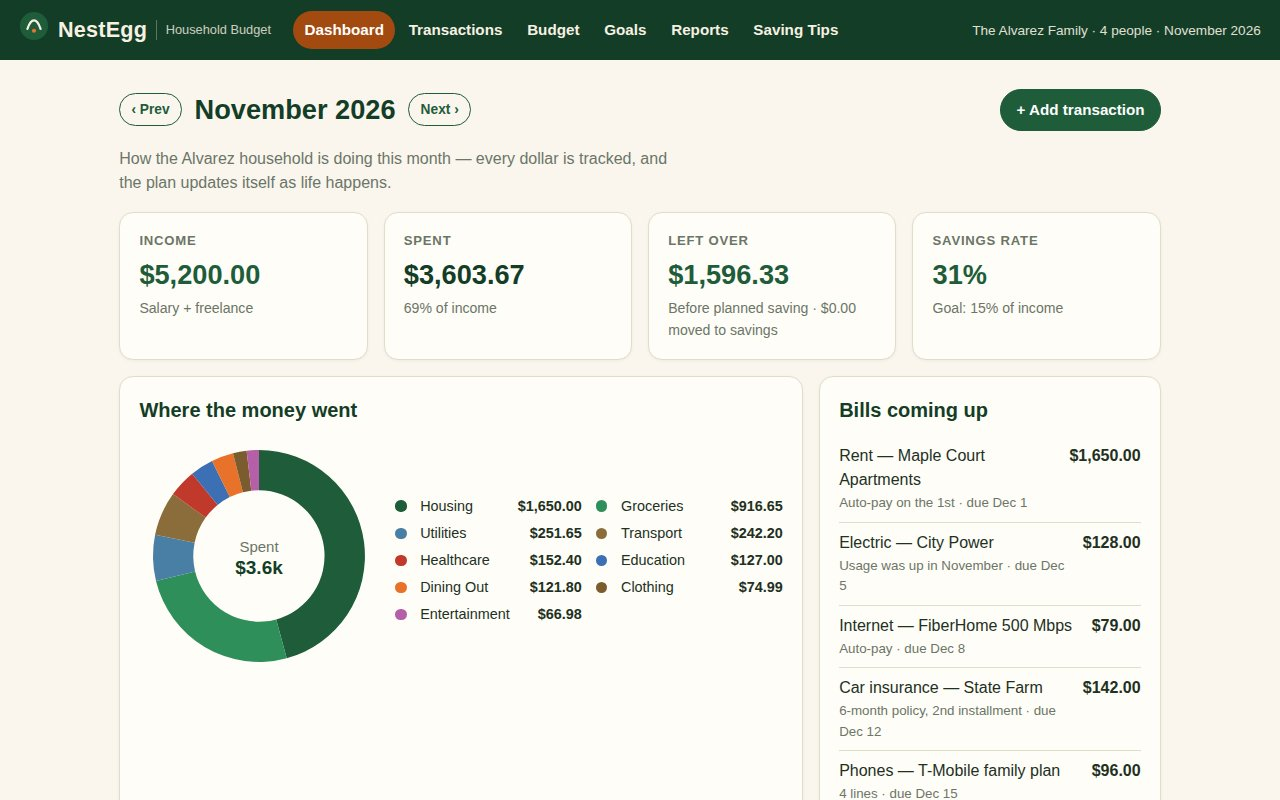
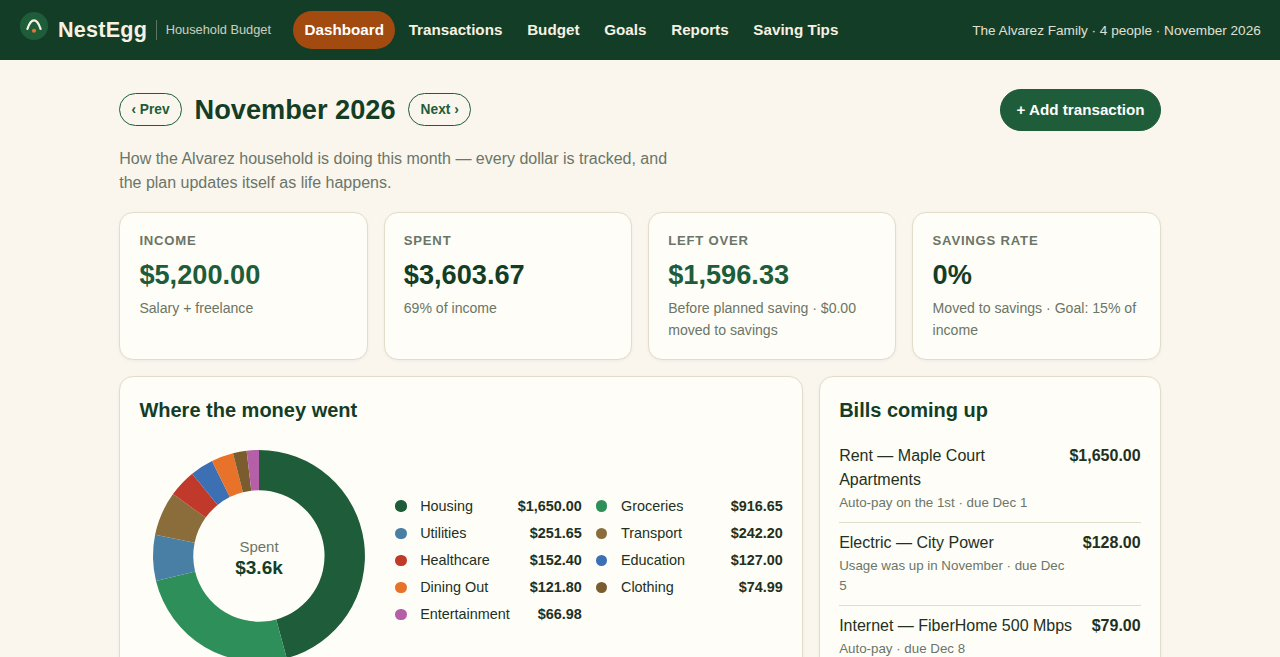
rev2: fix F-19 event delegation; honest savings rate (A-01/F-21/F-22/F-23); dynamic month (F-09/F-10); Reports summary totals (F-20); edit-to-other-month notice (F-24); Amount label 1 line

diff --git a/app/view-reports.js b/app/view-reports.js
@@ -17,7 +17,11 @@ export function render(ctx) {
   });
   const avgIncome = Math.round(series.reduce((a, m) => a + m.income, 0) / series.length);
   const avgSpent = Math.round(series.reduce((a, m) => a + m.spent, 0) / series.length);
-  const avgSaved = avgIncome - avgSpent;
+  // F-21 (rev2): income minus spending is money LEFT OVER, not money saved —
+  // nothing here was actually moved to savings (savingsMoved is $0 for every
+  // month in the data). Calling it "saved" put a false 17% savings rate on
+  // this page, contradicting the Dashboard's $0 moved.
+  const avgLeftOver = avgIncome - avgSpent;
   const best = series.reduce((a, m) => (m.income - m.spent > a.income - a.spent ? m : a), series[0]);
   // F-18: say out loud which months are stored summaries, not live totals.
   const summaryLabels = series.filter((m) => m.fromSummary).map((m) => m.label);
@@ -29,7 +33,11 @@ export function render(ctx) {
   const prevMonth = shiftMonth(month, -1);
   const thisSpend = categorySpend(state, month);
   const lastSpend = categorySpend(state, prevMonth);
-  const compareRows = CATEGORIES.filter((c) => thisSpend[c.name] || lastSpend[c.name]).map((c) => {
+  // F-20 (rev2): months with only a stored summary (Jun–Aug 2026) have no
+  // transactions, so the per-category comparison used to render 0 rows while
+  // the chart above still showed numbers. Show the totals from the summary
+  // and say out loud that there is no per-category breakdown.
+  let compareRows = CATEGORIES.filter((c) => thisSpend[c.name] || lastSpend[c.name]).map((c) => {
     const cur = thisSpend[c.name] || 0;
     const prev = lastSpend[c.name] || 0;
     const delta = cur - prev;
@@ -39,6 +47,21 @@ export function render(ctx) {
       <td class="num">${money(prev)}</td><td class="num">${money(cur)}</td>
       <td class="num ${cls}">${arrow} ${money(Math.abs(delta))}</td></tr>`;
   }).join("");
+  if (!compareRows) {
+    const spentFor = (ym) => {
+      const s = MONTH_SUMMARIES.find((x) => x.ym === ym);
+      return s ? s.spent : monthTotals(state, ym).spent;
+    };
+    const curTotal = spentFor(month);
+    const prevTotal = spentFor(prevMonth);
+    const delta = curTotal - prevTotal;
+    const arrow = delta > 0 ? "▲" : delta < 0 ? "▼" : "—";
+    const cls = delta > 0 ? "negative" : delta < 0 ? "positive" : "";
+    compareRows = `<tr><td>Total spending</td>
+      <td class="num">${money(prevTotal)}</td><td class="num">${money(curTotal)}</td>
+      <td class="num ${cls}">${arrow} ${money(Math.abs(delta))}</td></tr>
+    <tr><td colspan="4" class="hint">No transaction-level data for these months — only monthly totals were kept, so there is no per-category breakdown. See the chart above for the totals.</td></tr>`;
+  }
 
   const tips = [];
   const dining = (thisSpend["Dining Out"] || 0) + (lastSpend["Dining Out"] || 0);
@@ -47,8 +70,8 @@ export function render(ctx) {
   if (groceries > 55000) tips.push(`Groceries ran ${money(groceries)} in ${monthLabel(month)}. A weekly meal plan and one bulk Costco run a month — instead of three small trips — cuts impulse buys.`);
   const entertainment = thisSpend.Entertainment || 0;
   if (entertainment > 5000) tips.push(`Entertainment was ${money(entertainment)} in ${monthLabel(month)}. The library lends movies and board games free, and the kids love the park just as much.`);
-  tips.push(`Average saving over six months is ${money(avgSaved)} a month (${pct(avgSaved, avgIncome)} of income). Moving that amount to savings on payday, automatically, locks the habit in.`);
-  if (best) tips.push(`${best.label} was the best month — ${money(best.income - best.spent)} saved. Whatever the family did then is worth repeating.`);
+  tips.push(`Average left over over six months is ${money(avgLeftOver)} a month (${pct(avgLeftOver, avgIncome)} of income). Moving that amount to savings on payday, automatically, locks the habit in.`);
+  if (best) tips.push(`${best.label} was the best month — ${money(best.income - best.spent)} left over. Whatever the family did then is worth repeating.`);
 
   return `
   <h1>Reports</h1>
@@ -56,7 +79,7 @@ export function render(ctx) {
   <div class="grid grid-3 mt">
     <div class="card stat"><div class="label">Average income / mo</div><div class="value">${money(avgIncome)}</div><div class="note">Last 6 months</div></div>
     <div class="card stat"><div class="label">Average spending / mo</div><div class="value">${money(avgSpent)}</div><div class="note">Last 6 months</div></div>
-    <div class="card stat"><div class="label">Average saved / mo</div><div class="value good">${money(avgSaved)}</div><div class="note">${pct(avgSaved, avgIncome)} savings rate</div></div>
+    <div class="card stat"><div class="label">Average left over / mo</div><div class="value ${avgLeftOver >= 0 ? "good" : "warn"}">${money(avgLeftOver)}</div><div class="note">${pct(avgLeftOver, avgIncome)} left over, before planned saving</div></div>
   </div>
   <div class="card mt">
     <h2>Income vs spending — last 6 months</h2>

diff --git a/app/view-transactions.js b/app/view-transactions.js
@@ -68,11 +68,11 @@ export function render(ctx) {
       <div class="field"><label for="f-search">Search</label><input id="f-search" type="search" placeholder="e.g. Costco or Groceries" value="${esc(searchText)}"></div>
       <button class="btn" id="show-add">+ Add transaction</button>
     </div>
-    <form id="add-form" class="inline-form" aria-label="Add transaction">
+    <form id="add-form" class="inline-form${notice ? " open" : ""}" aria-label="Add transaction">
       <div class="form-row-3 form-row">
         <div class="field"><label for="a-date">Date</label><input id="a-date" type="date" value="${month}-15" required></div>
         <div class="field"><label for="a-cat">Category</label><select id="a-cat"><option>Income</option>${CATEGORIES.map((c) => `<option>${c.name}</option>`).join("")}</select></div>
-        <div class="field"><label for="a-amt">Amount ($) — minus for spending; the sign is fixed for you if you forget</label><input id="a-amt" type="number" step="0.01" placeholder="-45.20" required></div>
+        <div class="field"><label for="a-amt">Amount ($)</label><input id="a-amt" type="number" step="0.01" placeholder="-45.20" required><p class="hint">Minus for spending — the sign is fixed for you if you forget.</p></div>
       </div>
       <div class="field"><label for="a-desc">Description</label><input id="a-desc" type="text" placeholder="What was it for?" required></div>
       <p class="form-msg" id="add-msg" role="alert">${esc(addMsg)}</p>
@@ -173,13 +173,21 @@ export function bind(el, ctx) {
     });
     if (!saved) { showFormError("#edit-msg", "That transaction could not be found — please reload the page and try again."); return; }
     editMsg = "";
+    // F-24 (rev2): an edit that moves the row to another month says so out
+    // loud, like the add path (F-09) already does — otherwise the row just
+    // vanishes from this month with no word. addNotice is consumed by the
+    // render right after, which opens the add form so it is actually seen.
+    addNotice = monthOf(date) !== month
+      ? `Moved to ${monthLabel(monthOf(date))} — use the month arrows on the Dashboard to see it.`
+      : "";
     rerender();
   });
-  el.querySelectorAll("[data-del]").forEach((b) => b.addEventListener("click", () => {
-    if (window.confirm("Delete this transaction?")) { deleteTransaction(state, b.dataset.del); rerender(); }
-  }));
-  el.querySelectorAll("[data-edit]").forEach((b) => b.addEventListener("click", () => {
-    const tx = state.transactions.find((t) => t.id === b.dataset.edit);
+  // F-19 (rev2): one delegated handler on tbody, not per-button listeners.
+  // refreshTable() replaces tbody.innerHTML on every keystroke/filter change,
+  // which used to orphan the listeners bound once in bind() — Edit/Delete
+  // silently died after any search or filter. Delegation survives the swap.
+  const openEdit = (id) => {
+    const tx = state.transactions.find((t) => t.id === id);
     if (!tx) return;
     const f = el.querySelector("#edit-form");
     f.querySelector("#e-id").value = tx.id;
@@ -201,5 +209,14 @@ export function bind(el, ctx) {
     f.classList.add("open");
     el.querySelector("#add-form").classList.remove("open");
     f.scrollIntoView({ block: "nearest" });
-  }));
+  };
+  el.querySelector("tbody").addEventListener("click", (e) => {
+    const delBtn = e.target.closest("[data-del]");
+    if (delBtn) {
+      if (window.confirm("Delete this transaction?")) { deleteTransaction(state, delBtn.dataset.del); rerender(); }
+      return;
+    }
+    const editBtn = e.target.closest("[data-edit]");
+    if (editBtn) openEdit(editBtn.dataset.edit);
+  });
 }

diff --git a/app/view-dashboard.js b/app/view-dashboard.js
@@ -8,7 +8,11 @@ export function render(ctx) {
   const { state, month } = ctx;
   const t = monthTotals(state, month);
   const spend = categorySpend(state, month);
-  const saveRate = t.income ? Math.round(((t.income - t.spent) / t.income) * 100) : 0;
+  // A-01 (rev2): the savings rate is money actually moved to savings, not
+  // leftover relabelled. (income-spent)/income read 31% while $0 had moved
+  // to savings — the cover screenshot contradicted itself.
+  const moved = savingsMoved(state, month);
+  const saveRate = t.income ? Math.round((moved / t.income) * 100) : 0;
   const slices = CATEGORIES
     .filter((c) => spend[c.name])
     .map((c) => ({ label: c.name, value: spend[c.name], color: c.color }))
@@ -46,8 +50,8 @@ export function render(ctx) {
   <div class="grid grid-4 mt">
     <div class="card stat"><div class="label">Income</div><div class="value good">${money(t.income)}</div><div class="note">Salary + freelance</div></div>
     <div class="card stat"><div class="label">Spent</div><div class="value">${money(t.spent)}</div><div class="note">${pct(t.spent, t.income)} of income</div></div>
-    <div class="card stat"><div class="label">Left over</div><div class="value ${t.remaining < 0 ? "warn" : "good"}">${money(t.remaining)}</div><div class="note">Before planned saving · ${money(savingsMoved(state, month))} moved to savings</div></div>
-    <div class="card stat"><div class="label">Savings rate</div><div class="value good">${saveRate}%</div><div class="note">Goal: 15% of income</div></div>
+    <div class="card stat"><div class="label">Left over</div><div class="value ${t.remaining < 0 ? "warn" : "good"}">${money(t.remaining)}</div><div class="note">Before planned saving · ${money(moved)} moved to savings</div></div>
+    <div class="card stat"><div class="label">Savings rate</div><div class="value ${saveRate >= 15 ? "good" : ""}">${saveRate}%</div><div class="note">Moved to savings · Goal: 15% of income</div></div>
   </div>
   <div class="grid grid-2-1 mt">
     <div class="card">

diff --git a/app/main.js b/app/main.js
@@ -1,7 +1,7 @@
 // main.js — hash router + app startup for NestEgg.
 
 import { loadState, resetState, loadNotice, saveError } from "./data.js";
-import { monthLabel, shiftMonth, esc } from "./format.js";
+import { monthLabel, shiftMonth, currentMonth, esc } from "./format.js";
 import * as Dashboard from "./view-dashboard.js";
 import * as Transactions from "./view-transactions.js";
 import * as Budget from "./view-budget.js";
@@ -19,7 +19,7 @@ const ROUTES = {
 };
 
 let state = loadState();
-let month = "2026-11";
+let month = currentMonth();
 const viewEl = document.getElementById("view");
 const headerMonth = document.getElementById("header-month");
 
@@ -61,7 +61,7 @@ document.getElementById("reset-demo").addEventListener("click", () => {
   if (window.confirm("Reset the demo data back to the Alvarez family's original sample? Your changes will be lost.")) {
     state = resetState();
     Transactions.resetFilters();
-    month = "2026-11";
+    month = currentMonth();
     render();
   }
 });

diff --git a/app/view-tips.js b/app/view-tips.js
@@ -3,8 +3,11 @@
 const TIPS = [
   {
     title: "Pay yourself first — on payday, not at month's end",
-    body: "Set an automatic transfer of $800 to savings for the morning your salary lands. The Alvarez family saves $800 a month this way; when saving waits until the end of the month, it never happens.",
-    save: "Saves about $800 a month, automatically",
+    // F-22 (rev2): the old wording claimed the family already "saves $800 a
+    // month this way" — false against the data ($0 moved to savings, no
+    // Savings transactions). This is a target to aim for, not a fact.
+    body: "Set an automatic transfer of $800 to savings for the morning your salary lands. The Alvarez family aims to move $800 a month this way — their Savings budget is $800, and nothing has moved yet; when saving waits until the end of the month, it never happens.",
+    save: "Moves $800 a month to savings, automatically",
   },
   {
     title: "One grocery list, one trip a week",

diff --git a/app/view-goals.js b/app/view-goals.js
@@ -40,6 +40,7 @@ export function render(ctx) {
   return `
   <h1>Savings goals</h1>
   <p class="lede">Three things the Alvarez family is saving for — every contribution is real money, taken out of this month's spending.</p>
+  <p class="hint">These balances were built up before the transaction history on this site begins, so no Savings transfer for them appears in Transactions — only new contributions below create Savings transactions.</p>
   <div class="grid grid-2 mt">
     <div class="card stat"><div class="label">Saved across all goals</div><div class="value good">${money(totalSaved)}</div><div class="note">${pct(Math.min(totalSaved, totalTarget), totalTarget)} of all targets combined</div></div>
     <div class="card stat"><div class="label">Still to save</div><div class="value">${money(Math.max(0, totalTarget - totalSaved))}</div><div class="note">Across ${state.goals.length} goals</div></div>

diff --git a/app/format.js b/app/format.js
@@ -55,6 +55,13 @@ export function todayIso() {
   return d.getFullYear() + "-" + String(d.getMonth() + 1).padStart(2, "0") + "-" + String(d.getDate()).padStart(2, "0");
 }
 
+// F-09/F-10 (rev2): the month being viewed starts at the real current
+// month, never a hard-coded seed month — on 01/12 the app used to open
+// still showing November 2026.
+export function currentMonth() {
+  return todayIso().slice(0, 7);
+}
+
 // F-09: a date inside the month being viewed — today if that month is the
 // current month, otherwise the 1st of the viewed month.
 export function dateInMonth(ym) {

diff --git a/reviews/builder-round3.md b/reviews/builder-round3.md
@@ -1,0 +1,126 @@
+# Builder log — NestEgg rev2 (round 3 fixes)
+
+- Ngày: 2026-11-29 ~00:20–00:45 VN
+- Base: `a23d891` (submission vòng 2, hạng 4770/5723)
+- Nguồn sửa: `reviews/reviewers-round3.md`, `reviews/browser-verify-round3.md`, `reviews/gemma-round3.md`
+- Kiểm chứng: Chromium thật (Playwright chromium-1255, `--headless=new`), app serve
+  bằng `python3 -m http.server 8123` từ `app/`, điều khiển qua CDP bằng script
+  Node (`/tmp/nestegg/r3-verify.mjs`, `/tmp/nestegg/r3-shots.mjs`).
+  Số đo trước = chạy lại script trên code `a23d891` (khớp đúng kết luận round 3).
+
+## 1. F-19 (BLOCKER) — Edit/Delete chết sau search/filter — PASS
+
+- Sửa: `app/view-transactions.js` — bỏ 2 khối `querySelectorAll("[data-del]")` /
+  `"[data-edit]"` gắn listener một lần trong `bind()`; thay bằng **một handler
+  delegation trên `tbody`** (`e.target.closest("[data-del]"/"[data-edit]")`),
+  logic mở form Edit tách thành `openEdit(id)`. `refreshTable()` thay
+  `tbody.innerHTML` giờ không còn làm mồ côi listener.
+- Đo trước (code cũ): search "costco" → 2 dòng → Delete → vẫn 2 dòng; Edit →
+  form không mở.
+- Đo sau: search "costco" → 2 nút Delete → Delete → **1 nút** (đúng trừ 1);
+  Edit sau search → form mở, `#e-desc` = "Thanksgiving groceries — Costco".
+- Lưu ý: lần verify đầu Delete báo 2→2 do Chrome cũ từ lượt baseline còn chạy
+  kẹt profile; kill sạch + chạy lại thì PASS. Debug riêng (`dbg-f19.mjs`)
+  cũng xác nhận 2→1, 0 page exception.
+
+## 2. A-01 / F-21 / F-22 / F-23 — số liệu "tiết kiệm" trung thực — PASS
+
+- Sửa:
+  - `app/view-dashboard.js:11`: `saveRate` = `savingsMoved(state, month) / income`
+    (trước: `(income - spent) / income`). Note đổi thành "Moved to savings ·
+    Goal: 15% of income"; class `good` chỉ khi ≥ 15% (0% không còn xanh).
+  - `app/view-reports.js:22-24`: `avgSaved` → `avgLeftOver`, thẻ "Average left
+    over / mo", note "17% left over, before planned saving" (không còn
+    "savings rate"); tips trong cùng file đổi "Average saving…" → "Average
+    left over…", "best month … saved" → "… left over". Đồng thời sửa F-27:
+    class `good`/`warn` theo dấu của `avgLeftOver` (trước luôn xanh).
+  - `app/view-tips.js:9-13` (tip #1): "The Alvarez family saves $800 a month
+    this way" → "aims to move $800 a month this way — their Savings budget is
+    $800, and nothing has moved yet"; save-line → "Moves $800 a month to
+    savings, automatically".
+  - `app/view-goals.js`: thêm 1 dòng hint dưới lede: số dư goals được tích lũy
+    từ trước khi lịch sử giao dịch trên site bắt đầu, nên không có giao dịch
+    Savings nào cho chúng trong Transactions; chỉ contribution mới tạo giao
+    dịch Savings. **Giữ nguyên số liệu seed ($10,550), không bịa số.**
+- Đo trước: Dashboard "Savings rate 31%" kề "$0.00 moved to savings"; Reports
+  "Average saved / mo $1,208.01 · 23% savings rate" (tháng 11; tháng 7 là 17%);
+  Tips #1 khẳng định gia đình "saves $800 a month".
+- Đo sau: Dashboard **"Savings rate 0%"** kề "$0.00 moved to savings";
+  Reports **"Average left over / mo $300.50 · 17% left over, before planned
+  saving"** (tháng 7) và không còn chuỗi "Average saved"/"savings rate" nào
+  trong body Reports; Tips #1 không còn câu khẳng định sai; Goals có dòng
+  giải thích nguồn số dư.
+
+## 3. F-09/F-10 — tháng mặc định động — PASS
+
+- Sửa: `app/format.js` thêm `currentMonth()` (từ `new Date()`); `app/main.js`
+  dùng `currentMonth()` lúc khởi động **và** lúc Reset demo (trước hard-code
+  `"2026-11"` cả 2 chỗ).
+- Đo trước (giả lập clock 01/12/2026 10:00 +07 qua `Page.addScriptToEvaluateOnNewDocument`):
+  dashboard vẫn "November 2026", form Add mặc định 2026-11-15.
+- Đo sau (cùng mock): header + H1 = **"December 2026"**, form Add mặc định
+  **2026-12-15**, 0 page exception. Đồng hồ thật 29/11 vẫn hiện November 2026
+  đúng seed.
+
+## 4. F-20 — bảng so sánh Reports trống tháng 6–8/2026 — PASS
+
+- Sửa: `app/view-reports.js` — khi không có dòng so sánh theo hạng mục nào,
+  hiện 1 dòng "Total spending" lấy từ `MONTH_SUMMARIES` (fallback
+  `monthTotals`) + 1 dòng ghi rõ không có dữ liệu từng giao dịch nên không có
+  breakdown theo hạng mục.
+- Đo trước: tháng 7/2026 → tbody **0 dòng** (trong khi biểu đồ có số).
+- Đo sau: tháng 7/2026 → **2 dòng**: "Total spending $4,185.00 $4,412.00
+  ▲ $227.00" + dòng giải thích. Tháng 11 (có giao dịch) vẫn hiện đủ 9 dòng
+  hạng mục như cũ.
+
+## 5. F-24 — sửa ngày sang tháng khác thì dòng biến mất không báo — PASS
+
+- Sửa: `app/view-transactions.js` — đường submit Edit: nếu `monthOf(date) !==
+  month` thì đặt `addNotice` = "Moved to <tháng mới> — use the month arrows
+  on the Dashboard to see it." (cùng cơ chế one-shot với đường Add F-09).
+  Kèm sửa: `render()` mở form Add khi có notice (`class="inline-form open"`),
+  vì trước đây notice nằm trong form đóng nên thực tế không ai thấy được —
+  cả đường Add F-09 cũng được hưởng.
+- Đo trước: edit Costco 2026-11-11 → 2026-12-05: dòng biến mất, notice rỗng,
+  không thấy gì.
+- Đo sau: notice **"Moved to December 2026 — use the month arrows on the
+  Dashboard to see it."**, `noticeVisible=true`, form Add tự mở, bảng còn
+  1 dòng Costco (dòng kia đã sang tháng 12).
+
+## 6. Nhãn "Amount ($)" form Add — PASS
+
+- Sửa: `app/view-transactions.js` — label rút về đúng "Amount ($)", phần giải
+  thích dấu chuyển xuống `<p class="hint">` dưới ô input.
+- Đo trước: label cao **43.6px = 2 dòng**, ô Amount lệch hàng so với Date.
+- Đo sau (form mở): label cao **21.8px = 1 dòng**, `amtTop == dateTop`
+  (316.34px, lệch 0px), hint hiện dưới ô: "Minus for spending — the sign is
+  fixed for you if you forget."
+
+## Screenshots (chụp lại, đã xem bằng mắt)
+
+- `screenshots/1-cover-dashboard.jpg` (1280×657): Savings rate **0%**, nhất
+  quán với "$0.00 moved to savings"; không lỗi mới.
+- `screenshots/2-transactions.jpg` (1280×657): form Add mở, nhãn Amount ($)
+  1 dòng thẳng hàng, hint nằm gọn dưới ô.
+- `screenshots/3-budget.jpg` (1280×657): không đổi, không lỗi mới.
+- `screenshots/4-dashboard-phone.jpg` (390×844): nav 2 hàng, stat 2 cột,
+  Savings rate 0%; donut bắt đầu ở cuối viewport như ảnh cũ (dưới fold,
+  không phải lỗi mới — giữ nguyên khung hình vòng trước).
+- Lưu ý kỹ thuật: headless Chrome ép chiều rộng cửa sổ tối thiểu 500px nên
+  ảnh phone dùng `Emulation.setDeviceMetricsOverride` 390×844 để đúng
+  viewport trong `shots.json`.
+
+## Tổng kết verify
+
+- Script `/tmp/nestegg/r3-verify.mjs`: **11/11 PASS** (chạy lại sau khi sửa
+  xong toàn bộ; baseline trên code cũ: 3/11 — 2 PASS giả do đo sai: label đo
+  khi form đóng, F-20 đo nhầm tháng 11; đã sửa script rồi mới lấy số đo sau).
+- 0 page exception trong mọi tab kiểm (thường + giả lập clock + phone).
+
+## KHÔNG LÀM (theo brief — để vòng sau nếu còn thời gian)
+
+- Month-switcher lên header chung (chỉ Dashboard có nút đổi tháng).
+- Đồng bộ tab bằng `storage` event (Ponytail #6).
+- Goals sửa/xóa (Ponytail #4).
+- Các mục khác ngoài brief (F-25/F-26/F-27 đã sửa ké 1 phần: F-27 xong cùng
+  F-21; F-25/F-26/F-28/F-29 chưa đụng).
